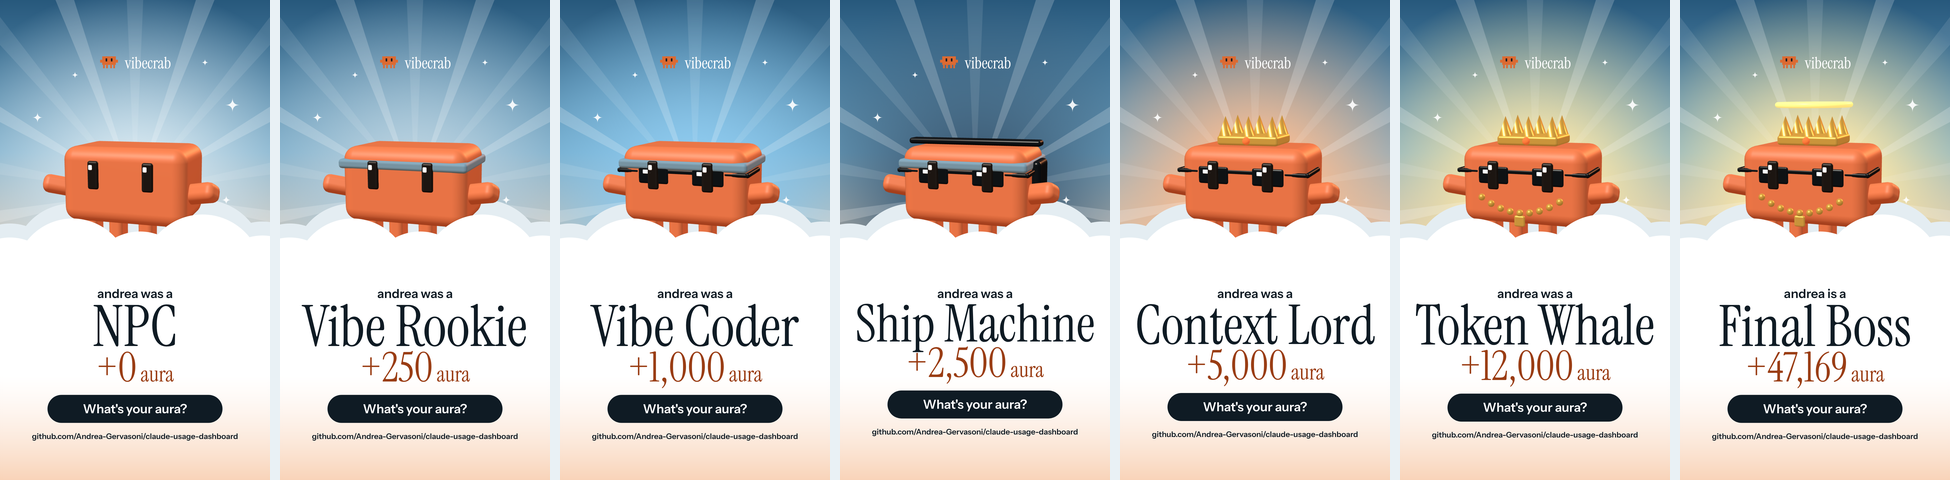
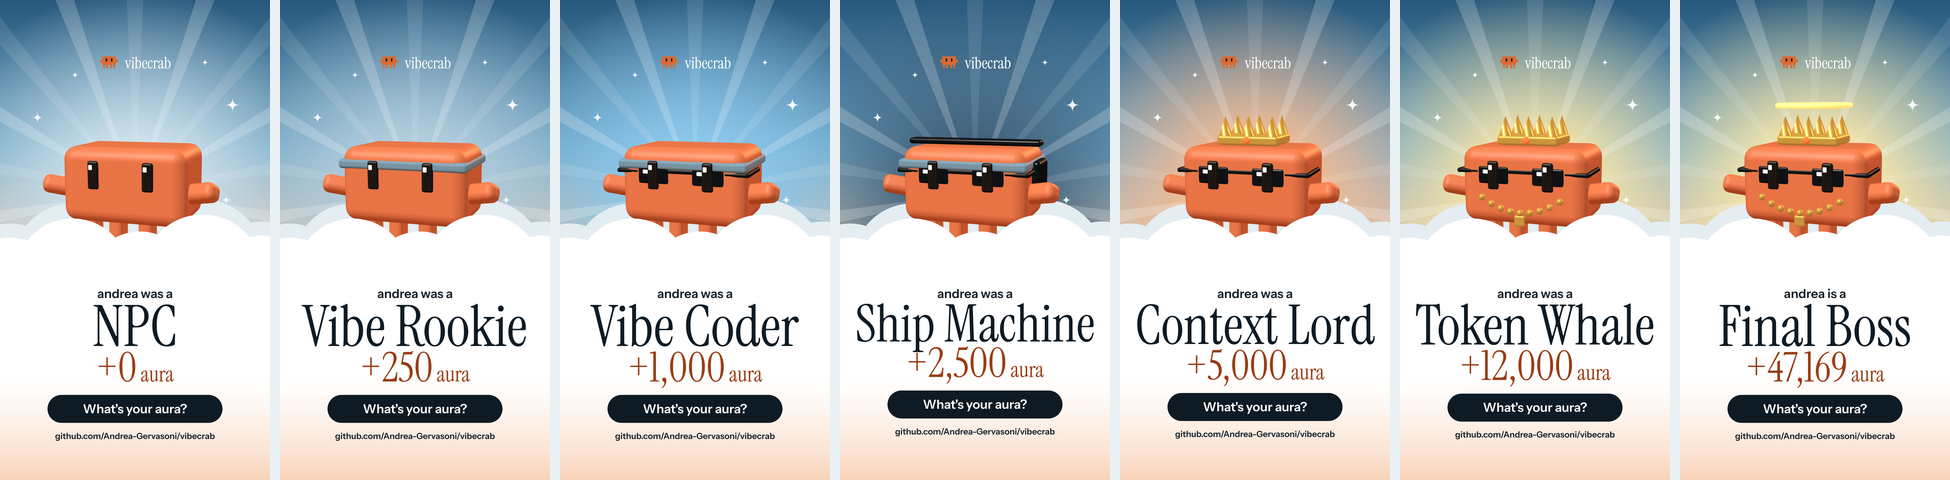
Rinomina completata: vibecrab ovunque
- Link, comando npx, installazione del plugin, URL della demo e campi
  di package.json puntano a Andrea-Gervasoni/vibecrab.
- Etichetta del LaunchAgent: local.vibecrab.
- Galleria dei livelli e GIF rigenerate con il nuovo nome; rimosse tre
  immagini non usate.
- Note di mercato aggiornate: il repo e' stato rinominato.

Claude-Session: https://claude.ai/code/session_01RwkimFGiHEEXVXUrc1wYCc

diff --git a/template.html b/template.html
@@ -1463,7 +1463,7 @@ function milestones() {
   if (prev.week !== wk && S.act.length >= 3) toast(`<b>Your week is ready</b>A short recap, whenever you like.`, "Play", recapOpen);
 }
 $("#replay").addEventListener("click", () => { try { localStorage.removeItem("vc-skip"); } catch (_) {} location.search = ""; });
-$("#demoCopy").addEventListener("click", async (e) => { const cmd = `npx github:${REPO || "Andrea-Gervasoni/claude-usage-dashboard"}`; try { await navigator.clipboard.writeText(cmd); e.currentTarget.textContent = "Copied"; } catch (_) { e.currentTarget.textContent = cmd; } });
+$("#demoCopy").addEventListener("click", async (e) => { const cmd = `npx github:${REPO || "Andrea-Gervasoni/vibecrab"}`; try { await navigator.clipboard.writeText(cmd); e.currentTarget.textContent = "Copied"; } catch (_) { e.currentTarget.textContent = cmd; } });
 /* con "--live" la pagina arriva da http://127.0.0.1: quando i numeri cambiano si ricarica da sola, ma mai durante un recap o una clip */
 if (/^https?:$/.test(location.protocol)) { let ver = null; setInterval(async () => { try { const v = await (await fetch("/__v", { cache: "no-store" })).text(); if (ver && v !== ver && !RC.on && !HZ.on) location.reload(); ver = v; } catch (_) {} }, 20000); }
 

diff --git a/README.md b/README.md
@@ -8,7 +8,7 @@
 A local recap of your Claude Code usage with a 3D mascot, aura levels, trophies and a card made for stories.</p>
 
 <p align="center">
-  <a href="https://github.com/Andrea-Gervasoni/claude-usage-dashboard/actions/workflows/test.yml"><img alt="tests" src="https://github.com/Andrea-Gervasoni/claude-usage-dashboard/actions/workflows/test.yml/badge.svg"></a>
+  <a href="https://github.com/Andrea-Gervasoni/vibecrab/actions/workflows/test.yml"><img alt="tests" src="https://github.com/Andrea-Gervasoni/vibecrab/actions/workflows/test.yml/badge.svg"></a>
   <a href="LICENSE"><img alt="MIT license" src="https://img.shields.io/badge/license-MIT-0F1B24"></a>
   <img alt="Node 18 or newer" src="https://img.shields.io/badge/node-%E2%89%A518-0F1B24">
   <img alt="100% local" src="https://img.shields.io/badge/100%25-local-DC6A32">
@@ -17,23 +17,23 @@ A local recap of your Claude Code usage with a 3D mascot, aura levels, trophies 
 
 <p align="center"><sub>Unofficial. Not affiliated with, endorsed by or sponsored by Anthropic. Nothing leaves your machine.</sub></p>
 
-<p align="center"><a href="https://andrea-gervasoni.github.io/claude-usage-dashboard/"><b>Try the live demo</b></a> (sample data, no install) · <a href="#run-it">Run it on your own usage</a></p>
+<p align="center"><a href="https://andrea-gervasoni.github.io/vibecrab/"><b>Try the live demo</b></a> (sample data, no install) · <a href="#run-it">Run it on your own usage</a></p>
 
 <p align="center"><img src="docs/demo.gif" alt="15 second tour: the crab, the numbers, the level cards, the secret clip" width="300"></p>
 
 ## Run it
 
 ```bash
-npx github:Andrea-Gervasoni/claude-usage-dashboard
+npx github:Andrea-Gervasoni/vibecrab
 ```
 
 That reads your usage with [ccusage](https://github.com/ryoppippi/ccusage), keeps a permanent history, builds one HTML file and opens it. Needs Node 18 or newer and Claude Code logs on the same machine.
 
 | You want | Run |
 | --- | --- |
-| Try it with fake numbers | `npx github:Andrea-Gervasoni/claude-usage-dashboard --demo` |
-| Keep the page open and fresh | `npx github:Andrea-Gervasoni/claude-usage-dashboard --live` |
-| Use it from inside Claude Code | `/plugin install vibecrab --marketplace Andrea-Gervasoni/claude-usage-dashboard`, then run its `vibecrab` command |
+| Try it with fake numbers | `npx github:Andrea-Gervasoni/vibecrab --demo` |
+| Keep the page open and fresh | `npx github:Andrea-Gervasoni/vibecrab --live` |
+| Use it from inside Claude Code | `/plugin install vibecrab --marketplace Andrea-Gervasoni/vibecrab`, then run its `vibecrab` command |
 | Refresh every night (macOS) | `git clone` this repo and run `./install.sh` |
 
 ## What you get

diff --git a/MARKET.md b/MARKET.md
@@ -28,7 +28,7 @@ Il nome di lavoro «vibelog» era occupato [V]: esisteva un pacchetto npm con qu
 
 Il progetto si chiama ora **vibecrab**. Il 26 novembre risultava libero su npm e PyPI e la ricerca dei repo GitHub dava 0 risultati. Marchi, domini e nomi utente non sono stati verificati. Alternative libere nello stesso controllo: `tokencrab`, `crabaura`.
 
-Da evitare tutto ciò che contiene «claw» o «Claude». Anche «molt» porta con sé l'associazione con Moltbot. Il repo si chiama ancora `claude-usage-dashboard`: va rinominato da GitHub (Settings) quando vuoi, ed è l'unico punto in cui «Claude» compare ancora nel nome.
+Da evitare tutto ciò che contiene «claw» o «Claude». Anche «molt» porta con sé l'associazione con Moltbot. Il repo, prima chiamato `claude-usage-dashboard`, è stato rinominato `vibecrab` il 28 novembre: GitHub reindirizza il vecchio indirizzo.
 
 ### 2. La mascotte
 
@@ -37,7 +37,7 @@ Le linee guida sui marchi di Anthropic [V] coprono «nomi, loghi, elementi di ma
 Per l'uso personale sul tuo Mac non cambia niente. Per un progetto pubblico che cerca visibilità, una mascotte che ricalca quella di Claude Code con accessori sopra è il rischio più concreto. La via prudente:
 
 - un granchio originale, con forma e colore diversi;
-- niente «Claude» nel nome, nel pacchetto e nel dominio (oggi il repo si chiama `claude-usage-dashboard`);
+- niente «Claude» nel nome, nel pacchetto e nel dominio (fatto: il repo si chiama `vibecrab`);
 - la dicitura «for Claude Code» e una riga «unofficial, not affiliated with Anthropic».
 
 Non è un parere legale.

diff --git a/CHANGELOG.md b/CHANGELOG.md
@@ -2,7 +2,7 @@
 
 ## 0.2.0
 - `--demo` (sample data, no Claude Code needed), `--live` (local server, refreshes every 2 minutes), `--help`, `--version`.
-- Claude Code plugin: `/plugin install vibecrab --marketplace Andrea-Gervasoni/claude-usage-dashboard`, then run its `vibecrab` command.
+- Claude Code plugin: `/plugin install vibecrab --marketplace Andrea-Gervasoni/vibecrab`, then run its `vibecrab` command.
 - README badge (`badge.svg`) and a page button to save it.
 - New opening sequence with real steps, skip and "always skip".
 - Gentle notices when you reach a new level or trophy, and a weekly recap offer (once a week, easy to dismiss).

diff --git a/DESIGN.md b/DESIGN.md
@@ -87,7 +87,7 @@ Il livello si calcola su tutta la storia, con una formula dichiarata nella pagin
 {
   "nome": "Vibecrab (dashboard locale Claude Code)",
   "data": "2026-11",
-  "percorso": "~/claude-usage-dashboard",
+  "percorso": "~/vibecrab",
   "idea": "La mascotte di Claude Code programma su una nuvola; i numeri del diario stanno in lastre di vetro sopra un cielo che va dal mattino al tramonto.",
   "direzione": "cielo (scelta da Andrea, fuori catalogo)",
   "font_display": "Instrument Serif",

diff --git a/CONTRIBUTING.md b/CONTRIBUTING.md
@@ -5,8 +5,8 @@ Thanks for helping. This project is small on purpose: no dependencies, no build 
 ## Setup
 
 ```bash
-git clone https://github.com/Andrea-Gervasoni/claude-usage-dashboard
-cd claude-usage-dashboard
+git clone https://github.com/Andrea-Gervasoni/vibecrab
+cd vibecrab
 npm test                          # needs Node 18+
 node bin/vibecrab.mjs --demo      # opens the page with sample data
 ```
